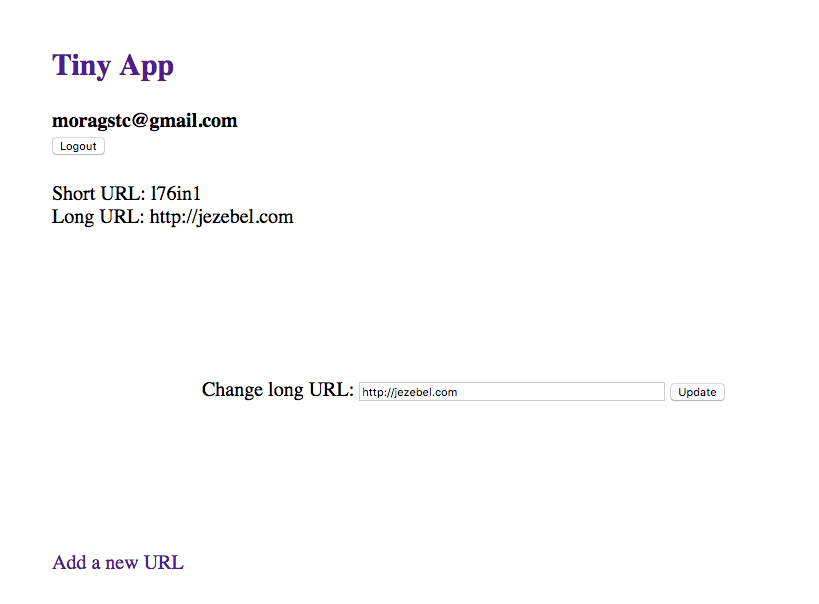
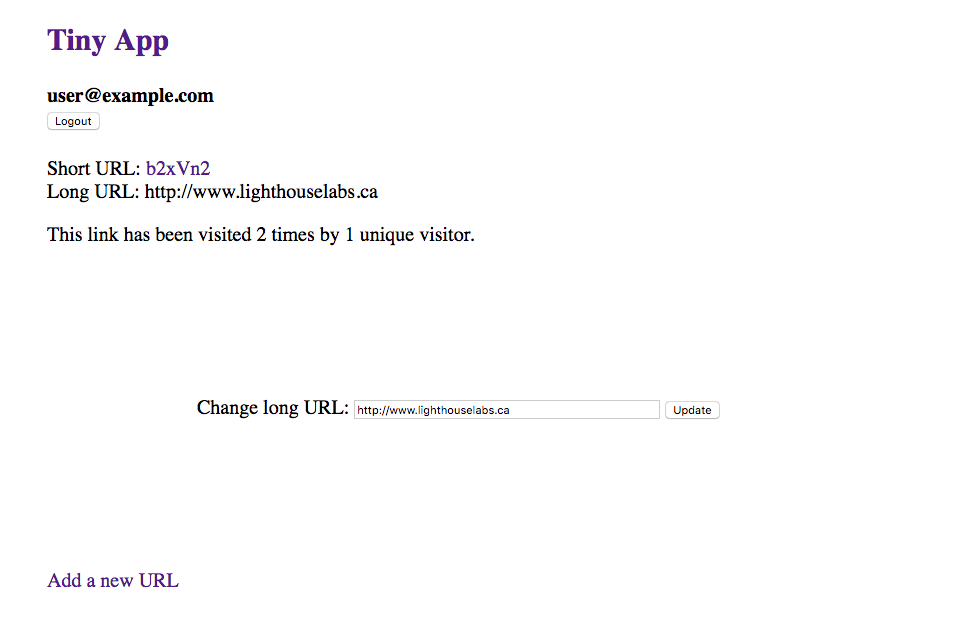
key created for date of link creation, pages updated to show info, updated screenshots

diff --git a/express_server.js b/express_server.js
@@ -27,19 +27,36 @@ const getUsersURLs = function(user_id) {
   return idObj;
 };
 
+const getCurrentDate = function() {
+  let today = new Date();
+  let dd = today.getDate();
+  let mm = today.getMonth()+1;
+  const yyyy = today.getFullYear();
+  if (dd < 10) {
+    dd = "0" + dd;
+  }
+  if (mm < 10) {
+    mm = "0" + mm;
+  }
+  today = mm + "/" + dd + "/" + yyyy;
+  return today;
+}
+
 //unique visitors considered to be any non user that follows the link
 const urlDatabase = {
   "b2xVn2": { 
     longURL: "http://www.lighthouselabs.ca",
     user: "userRandomID",
     visitCount: 2,
-    uniqueVisitCount: 1
+    uniqueVisitCount: 1,
+    dateCreated: "08/01/2018"
   },
   "9sm5xK": {
     longURL: "http://www.google.com",
     user: "user2RandomID",
     visitCount: 6,
-    uniqueVisitCount: 3
+    uniqueVisitCount: 3,
+    dateCreated: "07/31/2018"
   }
 };
 
@@ -174,7 +191,8 @@ app.post("/urls", (req, res) => {
     longURL: req.body.longURL,
     user: req.session.user_id,
     visitCount: 0,
-    uniqueVisitCount: 0
+    uniqueVisitCount: 0,
+    dateCreated: getCurrentDate()
   };
   res.redirect("/urls");
 });
